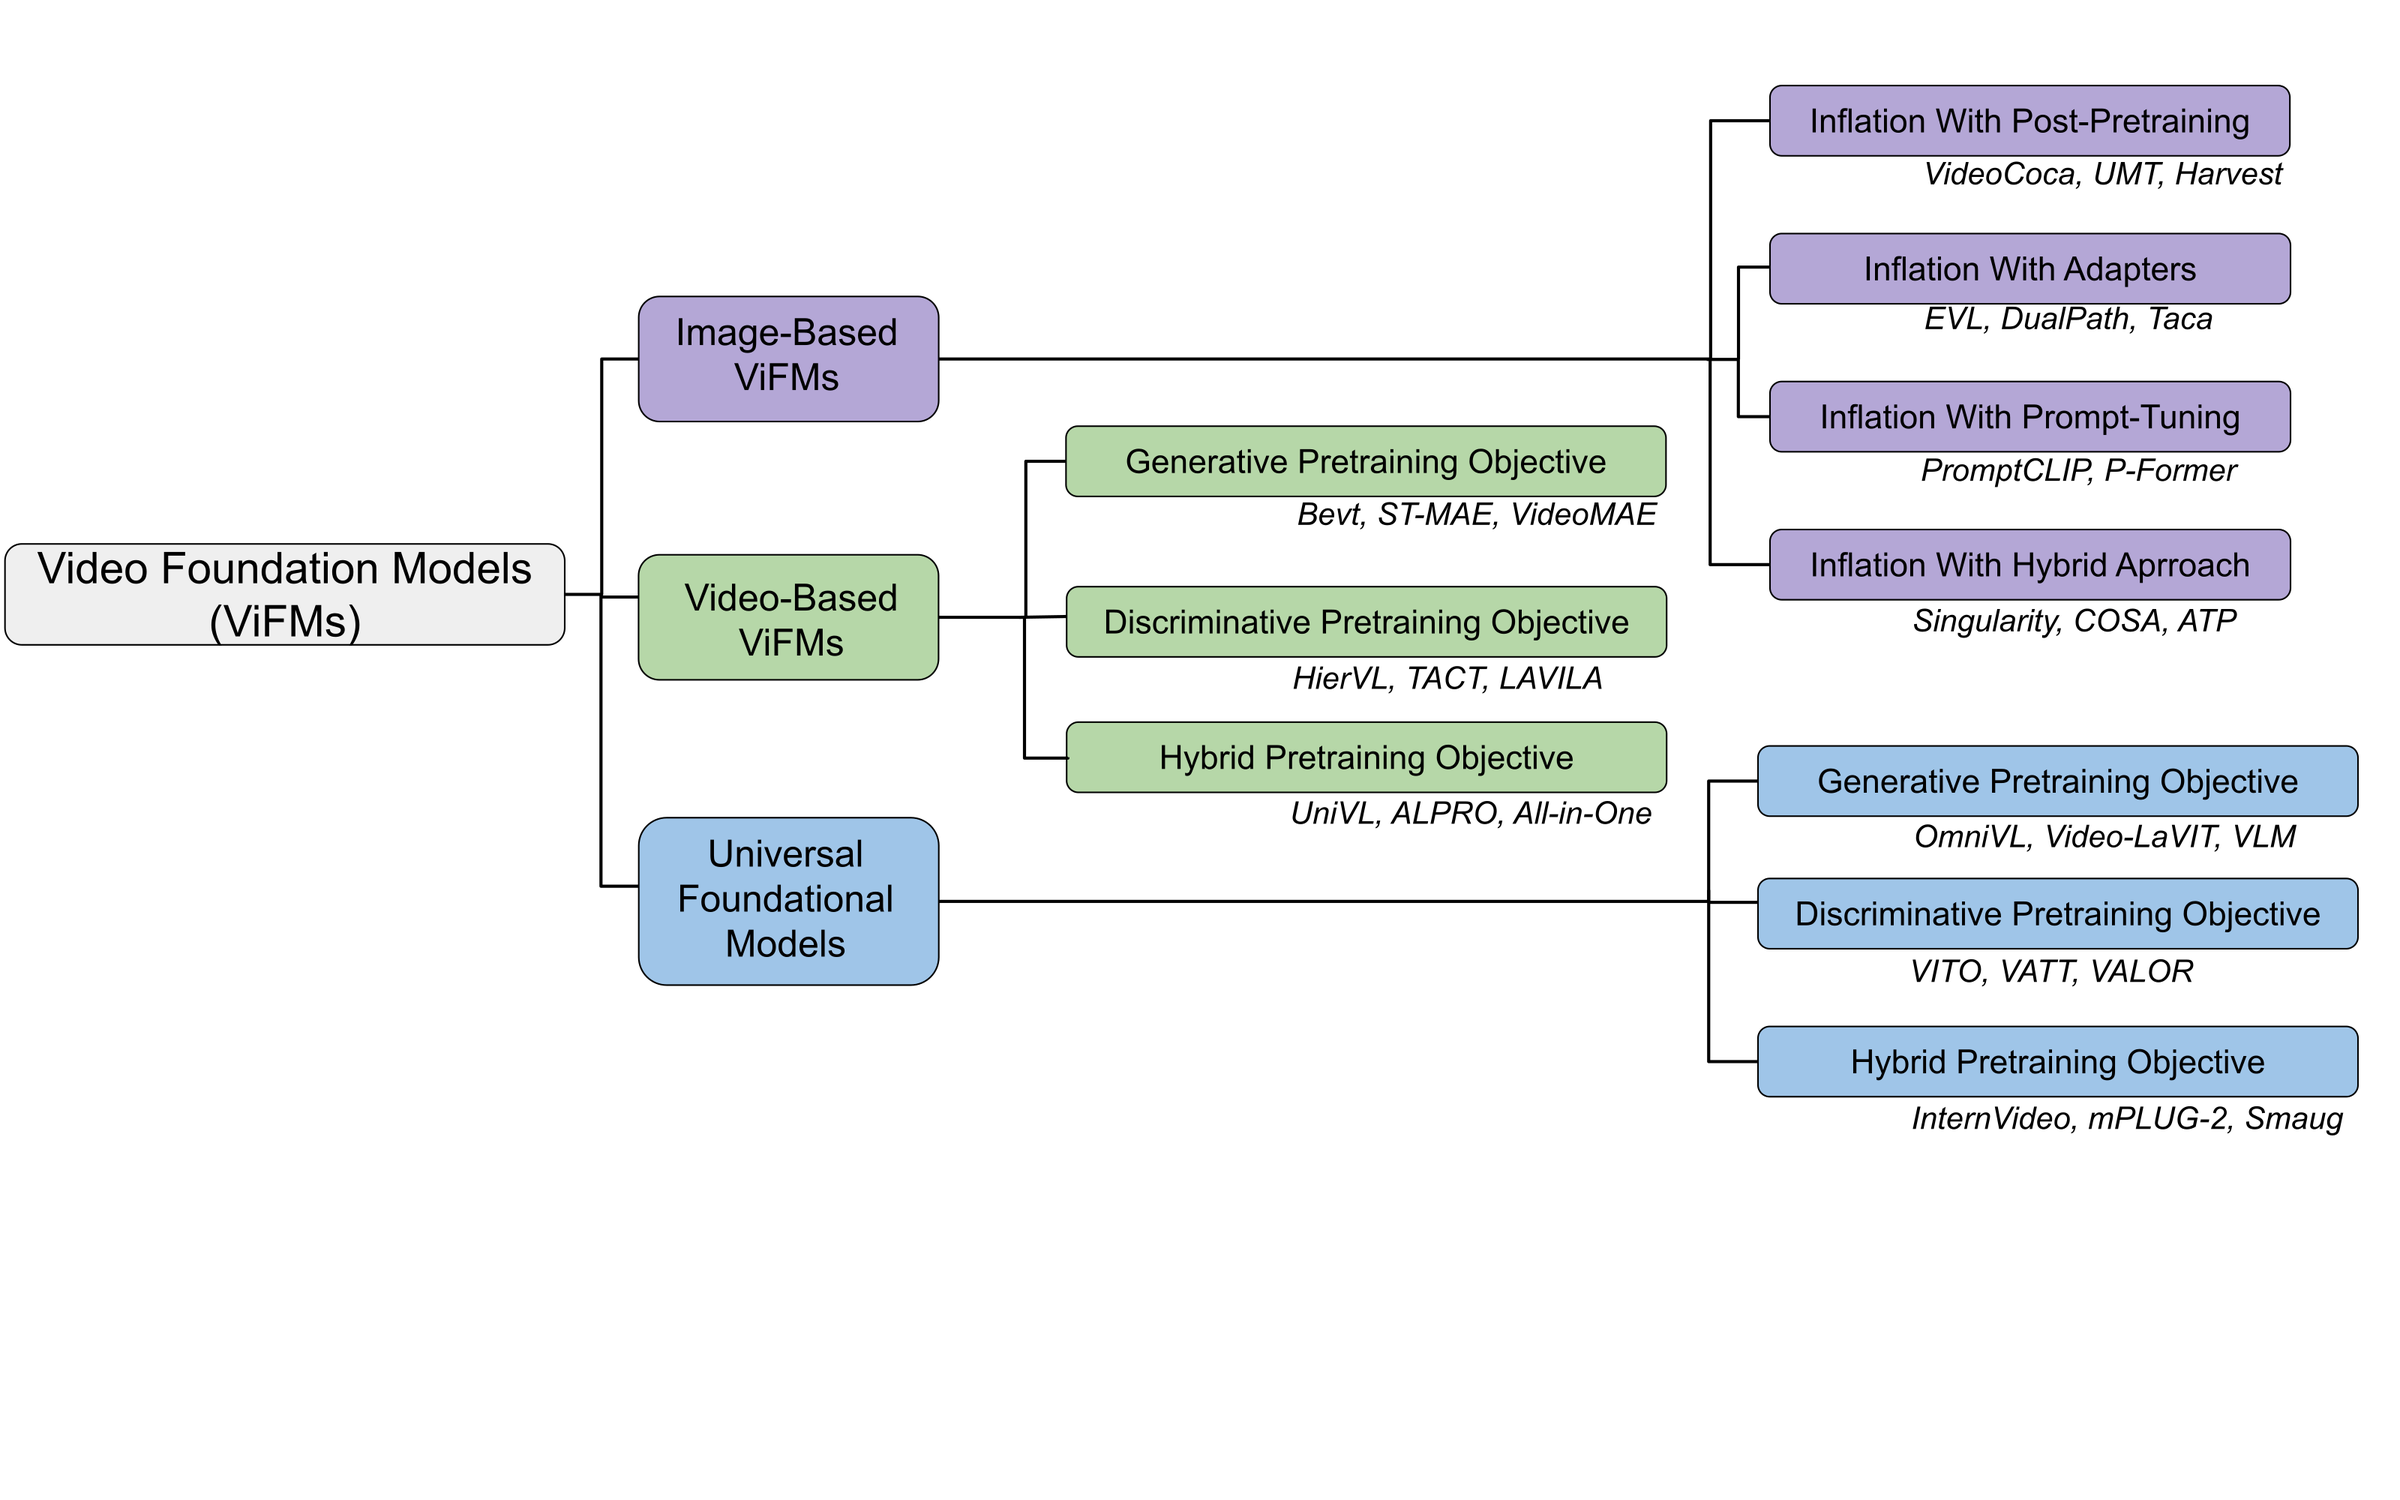
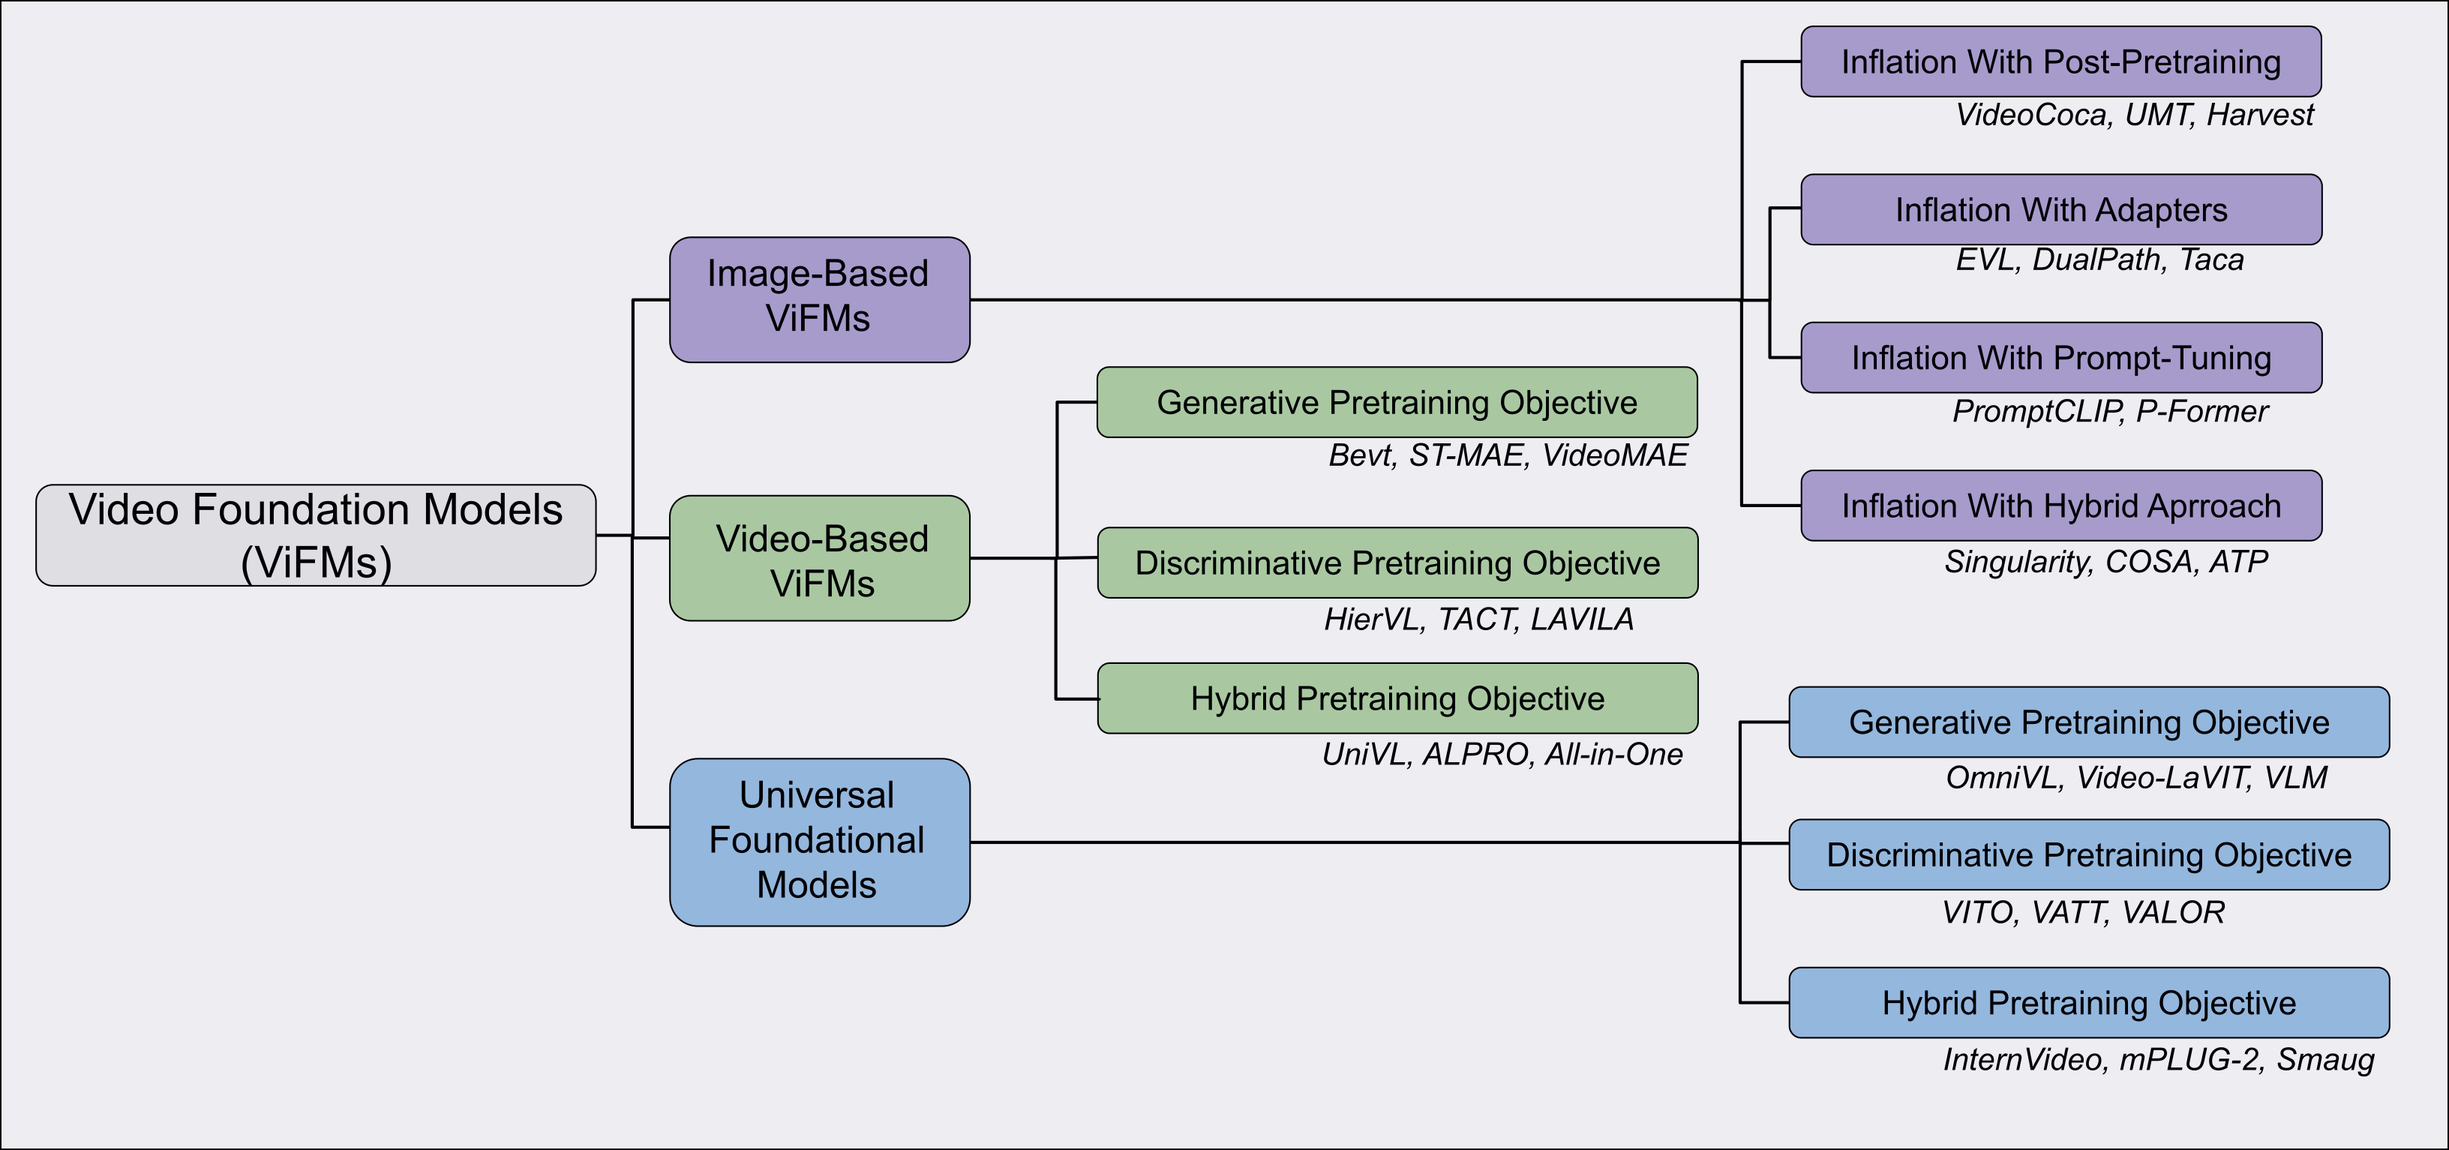
Updating readme

Changed region(s): [[0.0, 0.1533, 1.0, 0.8278], [0.7188, 0.8278, 1.0, 0.9504], [0.7188, 0.0, 0.9688, 0.1226]]

diff --git a/README.md b/README.md
@@ -1,13 +1,16 @@
-# Foundation Models for Video Understanding: A Survey
+# [[Foundation Models for Video Understanding: A Survey](https://arxiv.org/pdf/2405.03770)]
 
 [![paper](https://img.shields.io/badge/Paper-arxiv-b31b1b)](https://arxiv.org/pdf/2405.03770)
 &nbsp;
 [![welcome](https://img.shields.io/badge/Issues&#44;%20Comments&#44;%20and%20Questions-are%20all%20welcomed&#33;-f39f37)](https://github.com/NeeluMadan/ViFM_Survey/issues)
 
-![benchmark](./Images/video_papers.png)
 
+The field of video understanding is undergoing significant advancement, as evidenced by the increasing number of research publications focused on various video understanding tasks (Figure below). This growth coincides with the development of large-scale pretraining techniques. These techniques have demonstrated remarkable capabilities in adapting to diverse tasks, requiring minimal additional training with robust generalization. As a result, researchers are actively investigating the role of these foundational models to address a broad spectrum of video understanding challenges. We surveyed more than 200 foundation models, analyzing their performance over several common video tasks. Our survey, [[Foundation Model for Video Understanding: A Survey](https://arxiv.org/pdf/2405.03770)], also provides an overview of 16 different video tasks, including their benchmarks and evaluation metrics.
+
+![benchmark](./Images/video_papers.png)
 ![benchmark](./Images/Model_Task_Progress.png)
 
+## Classification
 ![benchmark](./Images/MainClassification.png)
 
 # Menu
